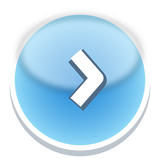
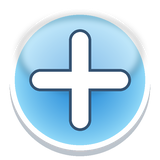
Kids UI: drop cover flip, put A/B and -/+ on the buttons
A on the selected cover used to flip it to the back of the box.
That path is gone; A on the cover does nothing. PLAY and BACK now
carry the Wii Remote A and B keys so the child can match the remote,
and the main-screen chevrons are the - and + keys, which already
page the coverflow.

Changed region(s): [[0.1562, 0.1562, 0.8438, 0.8438]]

diff --git a/source/menu/menu_game.cpp b/source/menu/menu_game.cpp
@@ -8,6 +8,9 @@
 extern const u8 gc_ogg[];
 extern const u32 gc_ogg_size;
 
+extern const u8 a_button_png[];
+extern const u8 b_button_png[];
+
 bool m_zoom_banner = false;
 bool m_banner_loaded = false;
 s16 m_gameBtnPlayFull;
@@ -50,6 +53,8 @@ void CMenu::_hideGame(bool instant)
 
 	m_btnMgr.hide(m_gameBtnPlay, instant);
 	m_btnMgr.hide(m_gameBtnBack, instant);
+	m_btnMgr.hide(m_gameLblAGlyph, instant);
+	m_btnMgr.hide(m_gameLblBGlyph, instant);
 	m_btnMgr.hide(m_gameBtnPlayFull, instant);
 	m_btnMgr.hide(m_gameBtnBackFull, instant);
 	m_btnMgr.hide(m_gameLblSnapBg, instant);
@@ -137,13 +142,7 @@ bool CMenu::_startVideo()
 void CMenu::_game(bool launch)
 {
 	m_banner_loaded = false;
-	bool coverFlipped = false;
-	int cf_version = 1;
-	string domain;
-	string key;
-	Vector3D v;
-	Vector3D savedv;
-	
+
 	dir_discHdr *hdr = (dir_discHdr*)MEM2_alloc(sizeof(dir_discHdr));
 	memcpy(hdr, CoverFlow.getHdr(), sizeof(dir_discHdr));
 	_setCurrentItem(hdr);
@@ -193,30 +192,6 @@ void CMenu::_game(bool launch)
 			startGameSound = 1;
 			_playGameSound();
 		}
-		/* move and zoom flipped cover */
-		if(coverFlipped)
-		{
-			float step = 0.05f;
-			if(BTN_PLUS_PRESSED || BTN_MINUS_PRESSED)
-			{
-				if(BTN_MINUS_PRESSED)
-					step = -step;
-				v.z = min(max(-15.f, v.z + step), 15.f);
-			}
-			else if(BTN_LEFT_PRESSED || BTN_RIGHT_PRESSED)
-			{
-				if(BTN_RIGHT_PRESSED)
-					step = -step;
-				v.x = min(max(-15.f, v.x + step), 15.f);
-			}
-			else if(BTN_UP_PRESSED || BTN_DOWN_PRESSED)
-			{
-				if(BTN_UP_PRESSED)
-					step = -step;
-				v.y = min(max(-15.f, v.y + step), 15.f);
-			}
-			CoverFlow.setCoverFlipPos(v);
-		}
 		/* exit game menu */
 		if(BTN_HOME_PRESSED)
 		{
@@ -225,24 +200,13 @@ void CMenu::_game(bool launch)
 		}
 		else if(BTN_B_PRESSED)
 		{
-			/* de flip cover */
-			if(coverFlipped)
-			{
-				CoverFlow.flip();
-				coverFlipped = false;
-				m_banner.SetShowBanner(true);
-			}
-			/* exit game selected menu */
-			else
-			{
-				_cleanupBanner();
-				break;
-			}
+			_cleanupBanner();
+			break;
 		}
 		/* Kids UI: d-pad steps between PLAY and BACK. CButtonsMgr::up/down
 		   already do this and bail out while the pointer is live, so aiming the
 		   wiimote at the screen still takes priority. */
-		else if(!coverFlipped && (BTN_UP_PRESSED || BTN_DOWN_PRESSED))
+		else if(BTN_UP_PRESSED || BTN_DOWN_PRESSED)
 		{
 			if(BTN_UP_PRESSED)
 				m_btnMgr.up();
@@ -250,7 +214,7 @@ void CMenu::_game(bool launch)
 				m_btnMgr.down();
 		}
 		/* play or stop a trailer video */
-		else if(BTN_MINUS_PRESSED && !coverFlipped)
+		else if(BTN_MINUS_PRESSED)
 		{
 			if(m_video_playing)
 			{
@@ -282,7 +246,7 @@ void CMenu::_game(bool launch)
 				break;
 			}
 			else if(launch || m_btnMgr.selected(m_gameBtnPlay) || m_btnMgr.selected(m_gameBtnPlayFull) || 
-					(!ShowPointer() && !m_video_playing && !coverFlipped))
+					(!ShowPointer() && !m_video_playing))
 			{
 				_hideGame();
 				if(isWiiVC && (hdr->type == TYPE_WII_GAME || hdr->type == TYPE_EMUCHANNEL))
@@ -308,32 +272,13 @@ void CMenu::_game(bool launch)
 					_showGame();
 				}
 			}
-			else if(!coverFlipped)
-			{
-				/* flip cover if mouse over */
-				for(int chan = WPAD_MAX_WIIMOTES-1; chan >= 0; chan--)
-				{
-					if(CoverFlow.mouseOver(m_cursor[chan].x(), m_cursor[chan].y()))
-					{
-						cf_version = _getCFVersion();
-						domain = fmt("%s_%i_S", cf_domain, cf_version);
-						key = "flip_pos";
-						if(!m_vid.wide())
-							key += "_4_3";
-						v = m_coverflow.getVector3D(domain, key);
-						coverFlipped = true;
-						CoverFlow.flip();
-						m_banner.SetShowBanner(false);
-					}
-				}
-			}
 		}
 		/* Kids UI: once a game is chosen the selection is frozen. The d-pad and
 		   stick no longer walk the coverflow underneath, so the only way out of
 		   this screen is B (back) or A (play). Removing this also removes the
 		   only writer of startGameSound == -10. */
 
-		if(!m_fa.isLoaded() && !coverFlipped && !m_video_playing)
+		if(!m_fa.isLoaded() && !m_video_playing)
 		{
 			if(m_banner_loaded && !m_soundThrdBusy && m_zoom_banner)
 			{
@@ -348,6 +293,8 @@ void CMenu::_game(bool launch)
 				
 				m_btnMgr.hide(m_gameBtnPlay);
 				m_btnMgr.hide(m_gameBtnBack);
+				m_btnMgr.hide(m_gameLblAGlyph);
+				m_btnMgr.hide(m_gameLblBGlyph);
 				for(u8 i = 0; i < ARRAY_SIZE(m_gameLblUser); ++i)
 					if(m_gameLblUser[i] != -1)
 						m_btnMgr.hide(m_gameLblUser[i]);
@@ -358,6 +305,8 @@ void CMenu::_game(bool launch)
 				{
 					m_btnMgr.show(m_gameBtnPlay);
 					m_btnMgr.show(m_gameBtnBack);
+					m_btnMgr.show(m_gameLblAGlyph);
+					m_btnMgr.show(m_gameLblBGlyph);
 					for(u8 i = 0; i < ARRAY_SIZE(m_gameLblUser); ++i)
 						if(m_gameLblUser[i] != -1)
 							m_btnMgr.show(m_gameLblUser[i]);
@@ -366,6 +315,8 @@ void CMenu::_game(bool launch)
 				{
 					m_btnMgr.hide(m_gameBtnPlay);
 					m_btnMgr.hide(m_gameBtnBack);
+					m_btnMgr.hide(m_gameLblAGlyph);
+					m_btnMgr.hide(m_gameLblBGlyph);
 					for(u8 i = 0; i < ARRAY_SIZE(m_gameLblUser); ++i)
 						if (m_gameLblUser[i] != -1)
 							m_btnMgr.hide(m_gameLblUser[i]);
@@ -417,17 +368,13 @@ void CMenu::_game(bool launch)
 			m_btnMgr.hide(m_gameBtnBackFull);
 			m_btnMgr.hide(m_gameBtnPlay);
 			m_btnMgr.hide(m_gameBtnBack);
+			m_btnMgr.hide(m_gameLblAGlyph);
+			m_btnMgr.hide(m_gameLblBGlyph);
 			
 			for(u8 i = 0; i < ARRAY_SIZE(m_gameLblUser); ++i)
 				if(m_gameLblUser[i] != -1)
 					m_btnMgr.hide(m_gameLblUser[i]);
 		}
-	}
-	if(coverFlipped)
-	{
-		m_coverflow.setVector3D(domain, key, savedv);
-		_loadCFLayout(cf_version, true);// true?
-		CoverFlow.applySettings();
 	}
 	m_snapshot_loaded = false;
 	TexData emptyTex;
@@ -459,9 +406,16 @@ void CMenu::_initGameMenu()
 
 	/* Kids UI: PLAY stacked tight over BACK on the right, large enough
 	   for small hands but with only an 8px gap so the pair reads as one
-	   control cluster rather than two distant buttons. */
+	   control cluster rather than two distant buttons. A and B glyphs sit
+	   on the left of each capsule so the child can match the remote. */
 	m_gameBtnPlay = _addButton("GAME/PLAY_BTN", theme.btnFont, L"", 404, 336, 212, 56, theme.btnFontColor);
 	m_gameBtnBack = _addButton("GAME/BACK_BTN", theme.btnFont, L"", 404, 400, 212, 56, theme.btnFontColor);
+	TexData texAButton;
+	TexData texBButton;
+	TexHandle.fromPNG(texAButton, a_button_png);
+	TexHandle.fromPNG(texBButton, b_button_png);
+	m_gameLblAGlyph = _addLabel("GAME/A_GLYPH", theme.btnFont, L"", 412, 344, 40, 40, CColor(0xFFFFFFFF), 0, texAButton);
+	m_gameLblBGlyph = _addLabel("GAME/B_GLYPH", theme.btnFont, L"", 412, 408, 40, 40, CColor(0xFFFFFFFF), 0, texBButton);
 	m_gameBtnBackFull = _addButton("GAME/BACK_FULL_BTN", theme.btnFont, L"", 118, 404, 190, 52, theme.btnFontColor);
 	m_gameBtnPlayFull = _addButton("GAME/PLAY_FULL_BTN", theme.btnFont, L"", 328, 404, 190, 52, theme.btnFontColor);
 	m_gameLblSnapBg = _addLabel("GAME/SNAP_BG", theme.txtFont, L"", 385, 31, 246, 170, theme.txtFontColor, 0, texSnapShotBg);
@@ -479,6 +433,8 @@ void CMenu::_initGameMenu()
 
 	_setHideAnim(m_gameBtnPlay, "GAME/PLAY_BTN", 0, 0, 1.f, -1.f);
 	_setHideAnim(m_gameBtnBack, "GAME/BACK_BTN", 0, 0, 1.f, -1.f);
+	_setHideAnim(m_gameLblAGlyph, "GAME/A_GLYPH", 0, 0, 1.f, -1.f);
+	_setHideAnim(m_gameLblBGlyph, "GAME/B_GLYPH", 0, 0, 1.f, -1.f);
 	_setHideAnim(m_gameBtnPlayFull, "GAME/PLAY_FULL_BTN", 0, 0, 1.f, 0.f);
 	_setHideAnim(m_gameBtnBackFull, "GAME/BACK_FULL_BTN", 0, 0, 1.f, 0.f);
 	_setHideAnim(m_gameLblSnapBg, "GAME/SNAP_BG", 0, 0, 1.f, 1.f);

diff --git a/scripts/kids_theme.py b/scripts/kids_theme.py
@@ -1,12 +1,12 @@
 #!/usr/bin/env python3
-"""Kids UI chrome: 9-slice glass capsules and coverflow arrows.
+"""Kids UI chrome: 9-slice glass capsules and coverflow - / + keys.
 
 Rendered at twice the on-screen size. CButtonsMgr::_drawBtn lays the caps
 out as squares of the button's height and stretches the centre strip
 between them (gui.cpp), with UVs spanning the whole texture — so texture
 resolution is free and a 2x source is simply downsampled by the GPU
-instead of being magnified. Same reason the arrows are 160px for an 80px
-slot.
+instead of being magnified. Same reason the - / + keys are 160px for an
+80px slot.
 
 The seam invariant from the first pass still holds: every shading term is
 a function of y alone, so the stretched centre strip cannot band against
@@ -97,8 +97,8 @@ def assert_seam(left, centre, right):
         assert lp[CAP - 1, y] == cp[0, y] == rp[0, y], f"seam mismatch at y={y}"
 
 
-def arrow(point_right, face, edge, size=160):
-    """A round glass button with a fat chevron — a clear target for a kid."""
+def wii_mark(is_plus, face, edge, size=160):
+    """A round glass button with a minus or plus — the Wii Remote - / +."""
     n = 4
     big = Image.new("RGBA", (size * n, size * n), (0, 0, 0, 0))
     d = ImageDraw.Draw(big)
@@ -124,16 +124,29 @@ def arrow(point_right, face, edge, size=160):
     shelf.putalpha(Image.composite(shelf.getchannel("A"), Image.new("L", big.size, 0), mask))
     big.alpha_composite(shelf.filter(ImageFilter.GaussianBlur(r * 0.05)))
 
-    # chevron
-    s = r * 0.46
-    xo = r * 0.10 * (1 if point_right else -1)
-    pts = [(-0.35, -0.75), (0.30, 0.0), (-0.35, 0.75)]
-    if not point_right:
-        pts = [(-x, y) for x, y in pts]
-    line = [(c + xo + x * s, c + y * s) for x, y in pts]
-    d.line(line, fill=(20, 56, 92, 190), width=int(s * 0.62), joint="curve")
-    d.line([(x, y - s * 0.06) for x, y in line], fill=(255, 255, 255, 255),
-           width=int(s * 0.42), joint="curve")
+    # minus is a horizontal bar; plus adds the vertical. Fat rounded caps
+    # so the mark still reads at 80px from a couch. Both navy outlines are
+    # laid down first so the white fill can cover the crossing on a plus.
+    bar_w = r * 0.72
+    bar_h = r * 0.155
+    inset = r * 0.038
+
+    def rounded_bar(horizontal, fill, pad=0.0):
+        if horizontal:
+            box = [c - bar_w + pad, c - bar_h + pad,
+                   c + bar_w - pad, c + bar_h - pad]
+        else:
+            box = [c - bar_h + pad, c - bar_w + pad,
+                   c + bar_h - pad, c + bar_w - pad]
+        d.rounded_rectangle(box, radius=max(1.0, bar_h - pad), fill=fill)
+
+    navy, white = (20, 56, 92, 220), (255, 255, 255, 255)
+    rounded_bar(True, navy)
+    if is_plus:
+        rounded_bar(False, navy)
+    rounded_bar(True, white, inset)
+    if is_plus:
+        rounded_bar(False, white, inset)
     return big.resize((size, size), Image.Resampling.LANCZOS)
 
 
@@ -155,10 +168,10 @@ def main():
         centre.save(OUT / f"but{name}center.png", optimize=True)
         right.save(OUT / f"but{name}right.png", optimize=True)
 
-    arrow(False, (168, 234, 255), (28, 132, 214)).save(OUT / "btnprev.png", optimize=True)
-    arrow(True, (168, 234, 255), (28, 132, 214)).save(OUT / "btnnext.png", optimize=True)
-    arrow(False, (255, 238, 150), (236, 152, 20)).save(OUT / "btnprevs.png", optimize=True)
-    arrow(True, (255, 238, 150), (236, 152, 20)).save(OUT / "btnnexts.png", optimize=True)
+    wii_mark(False, (168, 234, 255), (28, 132, 214)).save(OUT / "btnprev.png", optimize=True)
+    wii_mark(True, (168, 234, 255), (28, 132, 214)).save(OUT / "btnnext.png", optimize=True)
+    wii_mark(False, (255, 238, 150), (236, 152, 20)).save(OUT / "btnprevs.png", optimize=True)
+    wii_mark(True, (255, 238, 150), (236, 152, 20)).save(OUT / "btnnexts.png", optimize=True)
     print("wrote", OUT)
 
 

diff --git a/scripts/kids_glyph.py b/scripts/kids_glyph.py
@@ -1,14 +1,15 @@
 #!/usr/bin/env python3
-"""Kids UI button glyph: the Wii Remote's A button.
+"""Kids UI button glyphs: the Wii Remote's A and B keys.
 
 The stock hint drew a black rounded square with a green A, which is an
 Xbox convention. The Wii Remote's A is a round, slightly domed light key
 with dark grey lettering, so this draws that instead — given the Frutiger
 Aero treatment the rest of the theme uses: a glass dome with a bright
-upper shelf, a cool bounce along the bottom and a white rim.
+upper shelf, a cool bounce along the bottom and a white rim. B is the
+same key with a B, so PLAY and BACK carry a matching pair.
 
-Authored at 128px for a 52px slot (menu_main.cpp MAIN/A_GLYPH) so the GPU
-downsamples it, and compiled into the dol by bin2s alongside the splash.
+Authored at 128px for a 52px (main hint) / 40px (PLAY/BACK) slot so the
+GPU downsamples it, and compiled into the dol by bin2s alongside the splash.
 """
 from __future__ import annotations
 
@@ -17,7 +18,7 @@ from pathlib import Path
 from PIL import Image, ImageDraw, ImageFilter, ImageFont
 
 ROOT = Path(__file__).resolve().parents[1]
-OUT = ROOT / "data" / "images" / "a_button.png"
+IMG = ROOT / "data" / "images"
 FONT = ROOT / "out" / "imgs" / "font.ttf"
 
 W = 128
@@ -46,7 +47,7 @@ def vgrad(size, stops):
     return strip.resize((w, h), Image.Resampling.BICUBIC)
 
 
-def main():
+def wii_letter(letter: str) -> Image.Image:
     img = Image.new("RGBA", (SW, SW), (0, 0, 0, 0))
     c = SW / 2
     r = SW * 0.425
@@ -92,10 +93,17 @@ def main():
     # the letter, in the dark navy the rest of the UI uses for ink
     d = ImageDraw.Draw(img)
     f = ImageFont.truetype(str(FONT), int(SW * 0.50))
-    d.text((c, c + SW * 0.012), "A", font=f, fill=(27, 46, 70, 255), anchor="mm")
+    d.text((c, c + SW * 0.012), letter, font=f, fill=(27, 46, 70, 255), anchor="mm")
 
-    img.resize((W, W), Image.Resampling.LANCZOS).save(OUT, optimize=True)
-    print("wrote", OUT, f"{W}x{W}")
+    return img.resize((W, W), Image.Resampling.LANCZOS)
+
+
+def main():
+    IMG.mkdir(parents=True, exist_ok=True)
+    for letter, name in (("A", "a_button.png"), ("B", "b_button.png")):
+        out = IMG / name
+        wii_letter(letter).save(out, optimize=True)
+        print("wrote", out, f"{W}x{W}")
 
 
 if __name__ == "__main__":

diff --git a/source/menu/menu.hpp b/source/menu/menu.hpp
@@ -197,7 +197,7 @@ private:
 	
 // Main Coverflow
 	/* Kids UI: every main-screen button is stripped. Only the coverflow and
-	   its page arrows remain; the physical HOME button exits WiiFlow. */
+	   its - / + page keys remain; the physical HOME button exits WiiFlow. */
 	s16 m_mainLblCurMusic;
 	s16 m_mainLblLetter;
 	s16 m_mainLblNotice;
@@ -289,6 +289,8 @@ private:
 	   the game screen - only PLAY and BACK remain. */
 	s16 m_gameBtnPlay;
 	s16 m_gameBtnBack;
+	s16 m_gameLblAGlyph;
+	s16 m_gameLblBGlyph;
 	s16 m_gameLblUser[5];
 	int snapbg_x, snapbg_y, snapbg_w, snapbg_h;
 // disc 2 prompt menu

diff --git a/source/menu/menu_main.cpp b/source/menu/menu_main.cpp
@@ -252,9 +252,9 @@ int CMenu::main(void)
 		}
 		else if(BTN_A_PRESSED)
 		{
-			if(m_btnMgr.selected(m_mainBtnPrev))// A on prev icon - move back a screen of covers
+			if(m_btnMgr.selected(m_mainBtnPrev))// A on - key - move back a screen of covers
 				CoverFlow.pageUp();
-		 	else if(m_btnMgr.selected(m_mainBtnNext))// A on next icon - move forward a screen of covers
+		 	else if(m_btnMgr.selected(m_mainBtnNext))// A on + key - move forward a screen of covers
 				CoverFlow.pageDown();
 			else if(!CoverFlow.empty() && CoverFlow.select())
 			{
